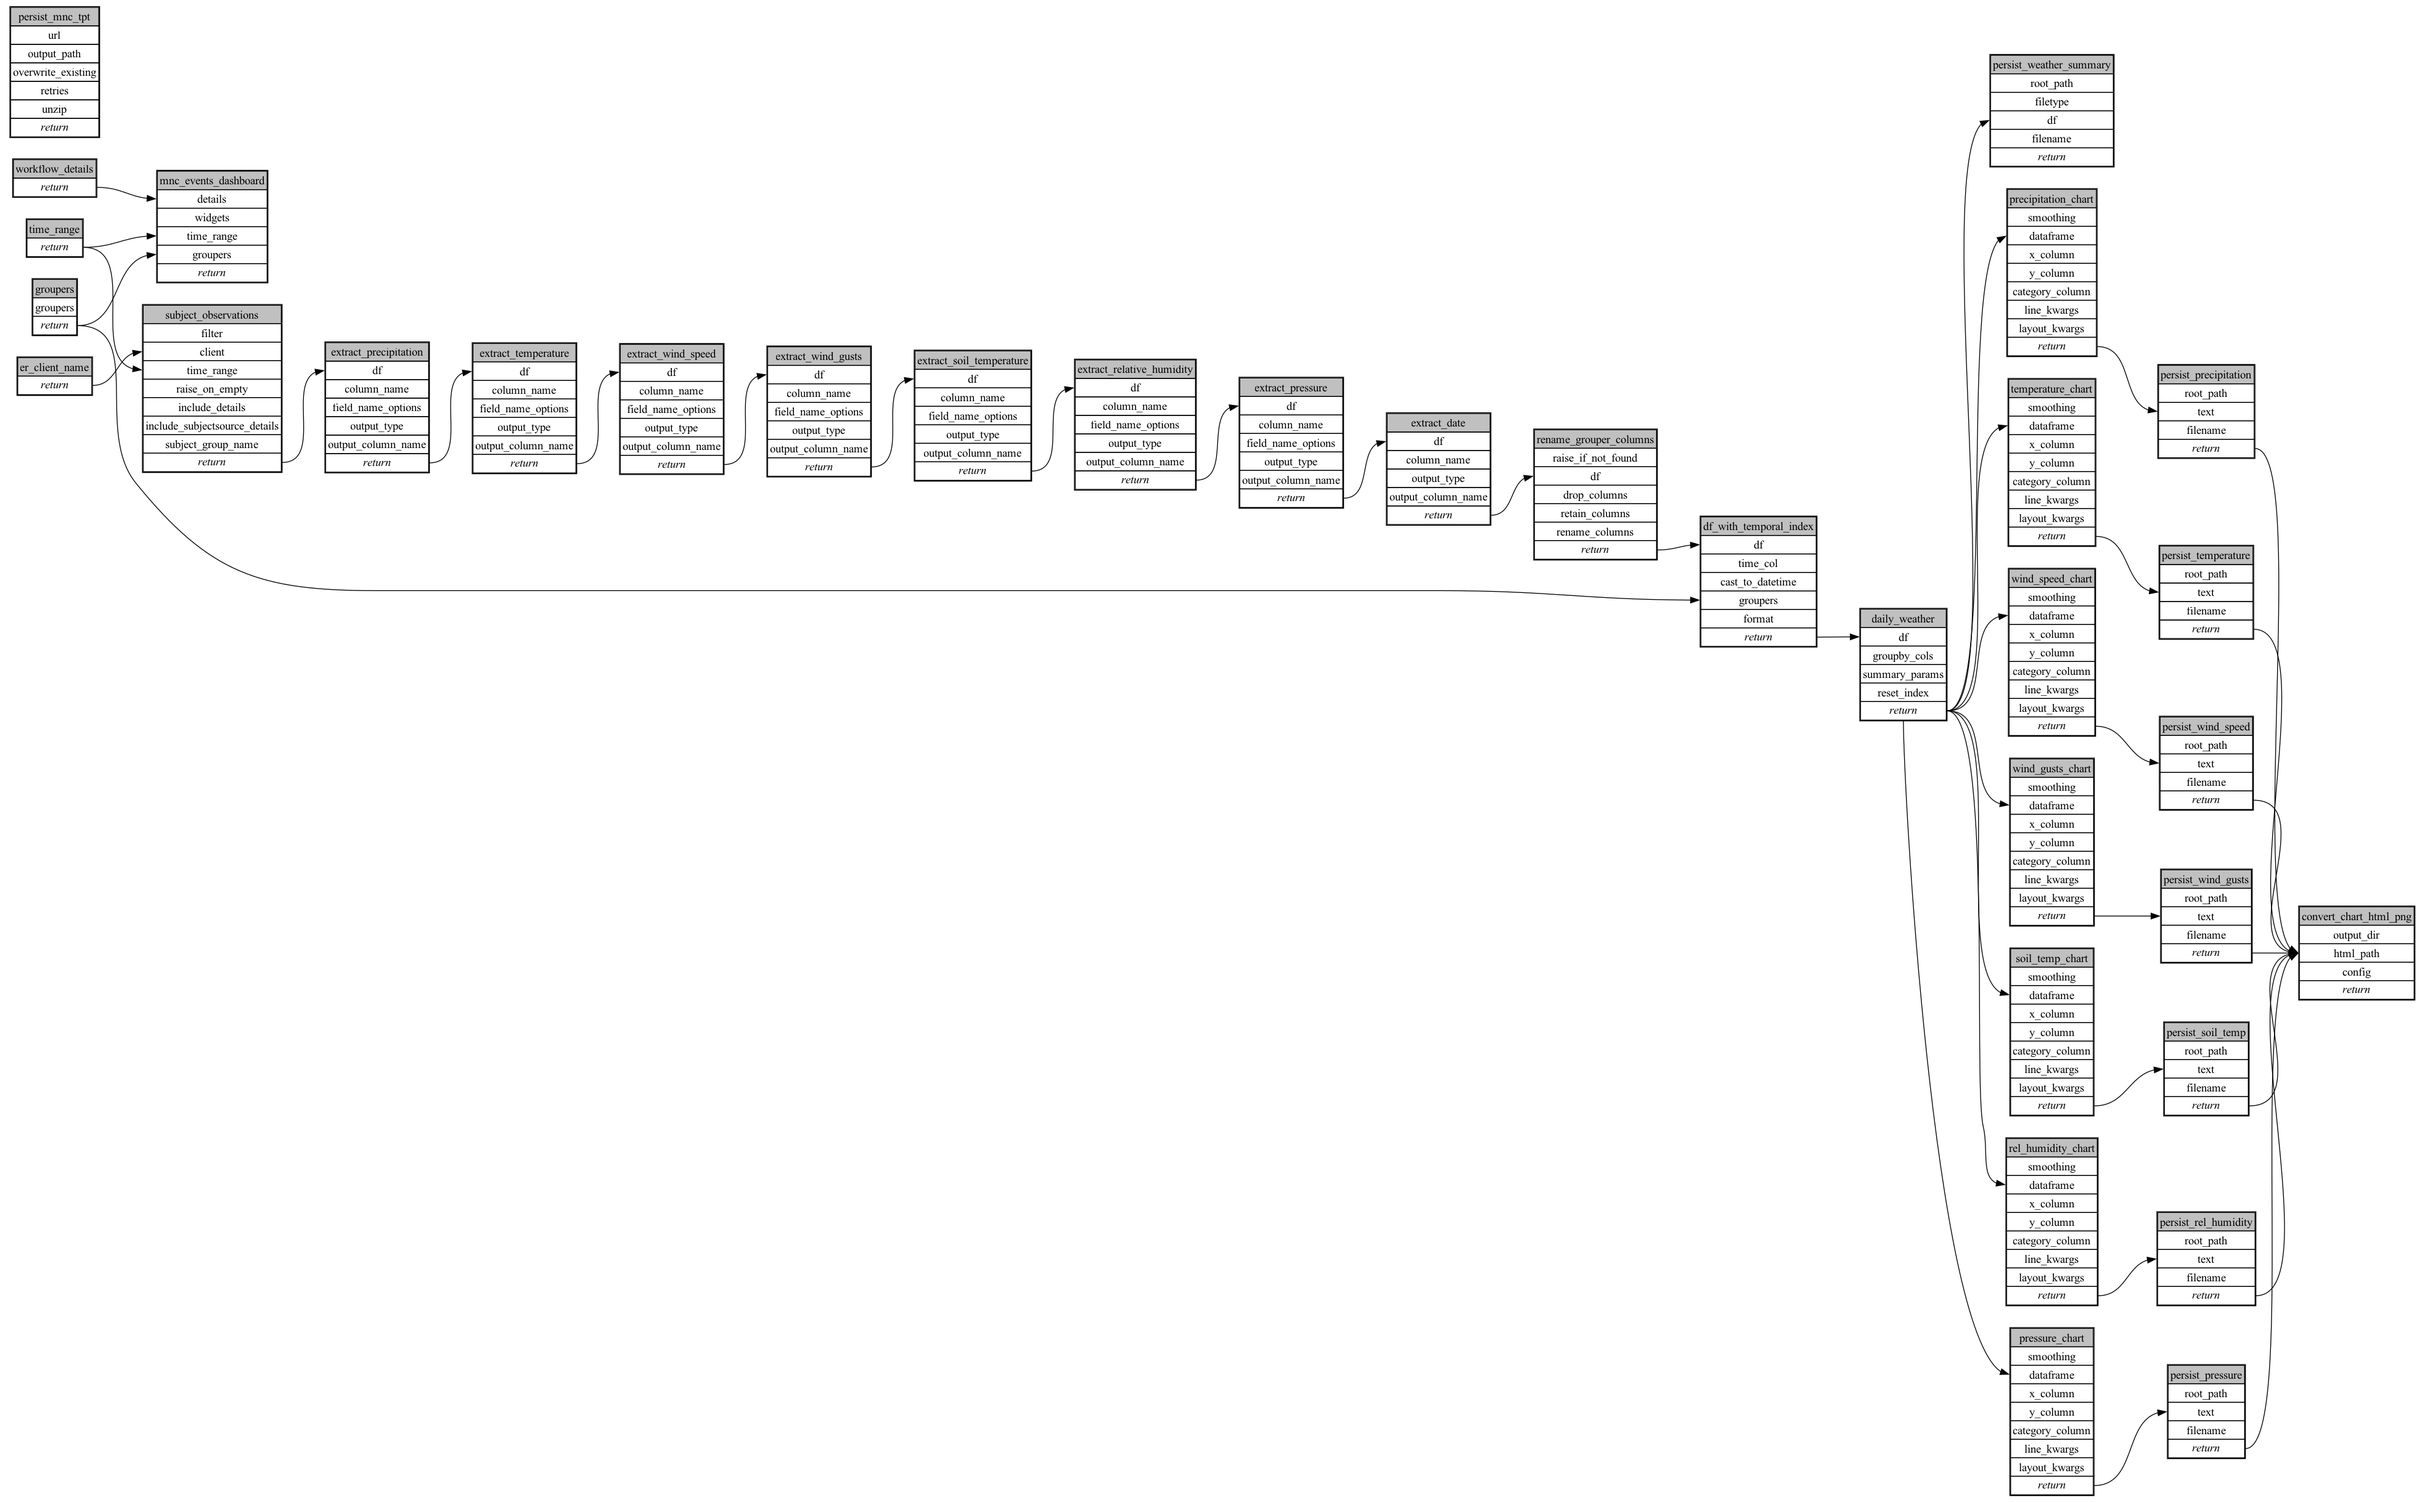
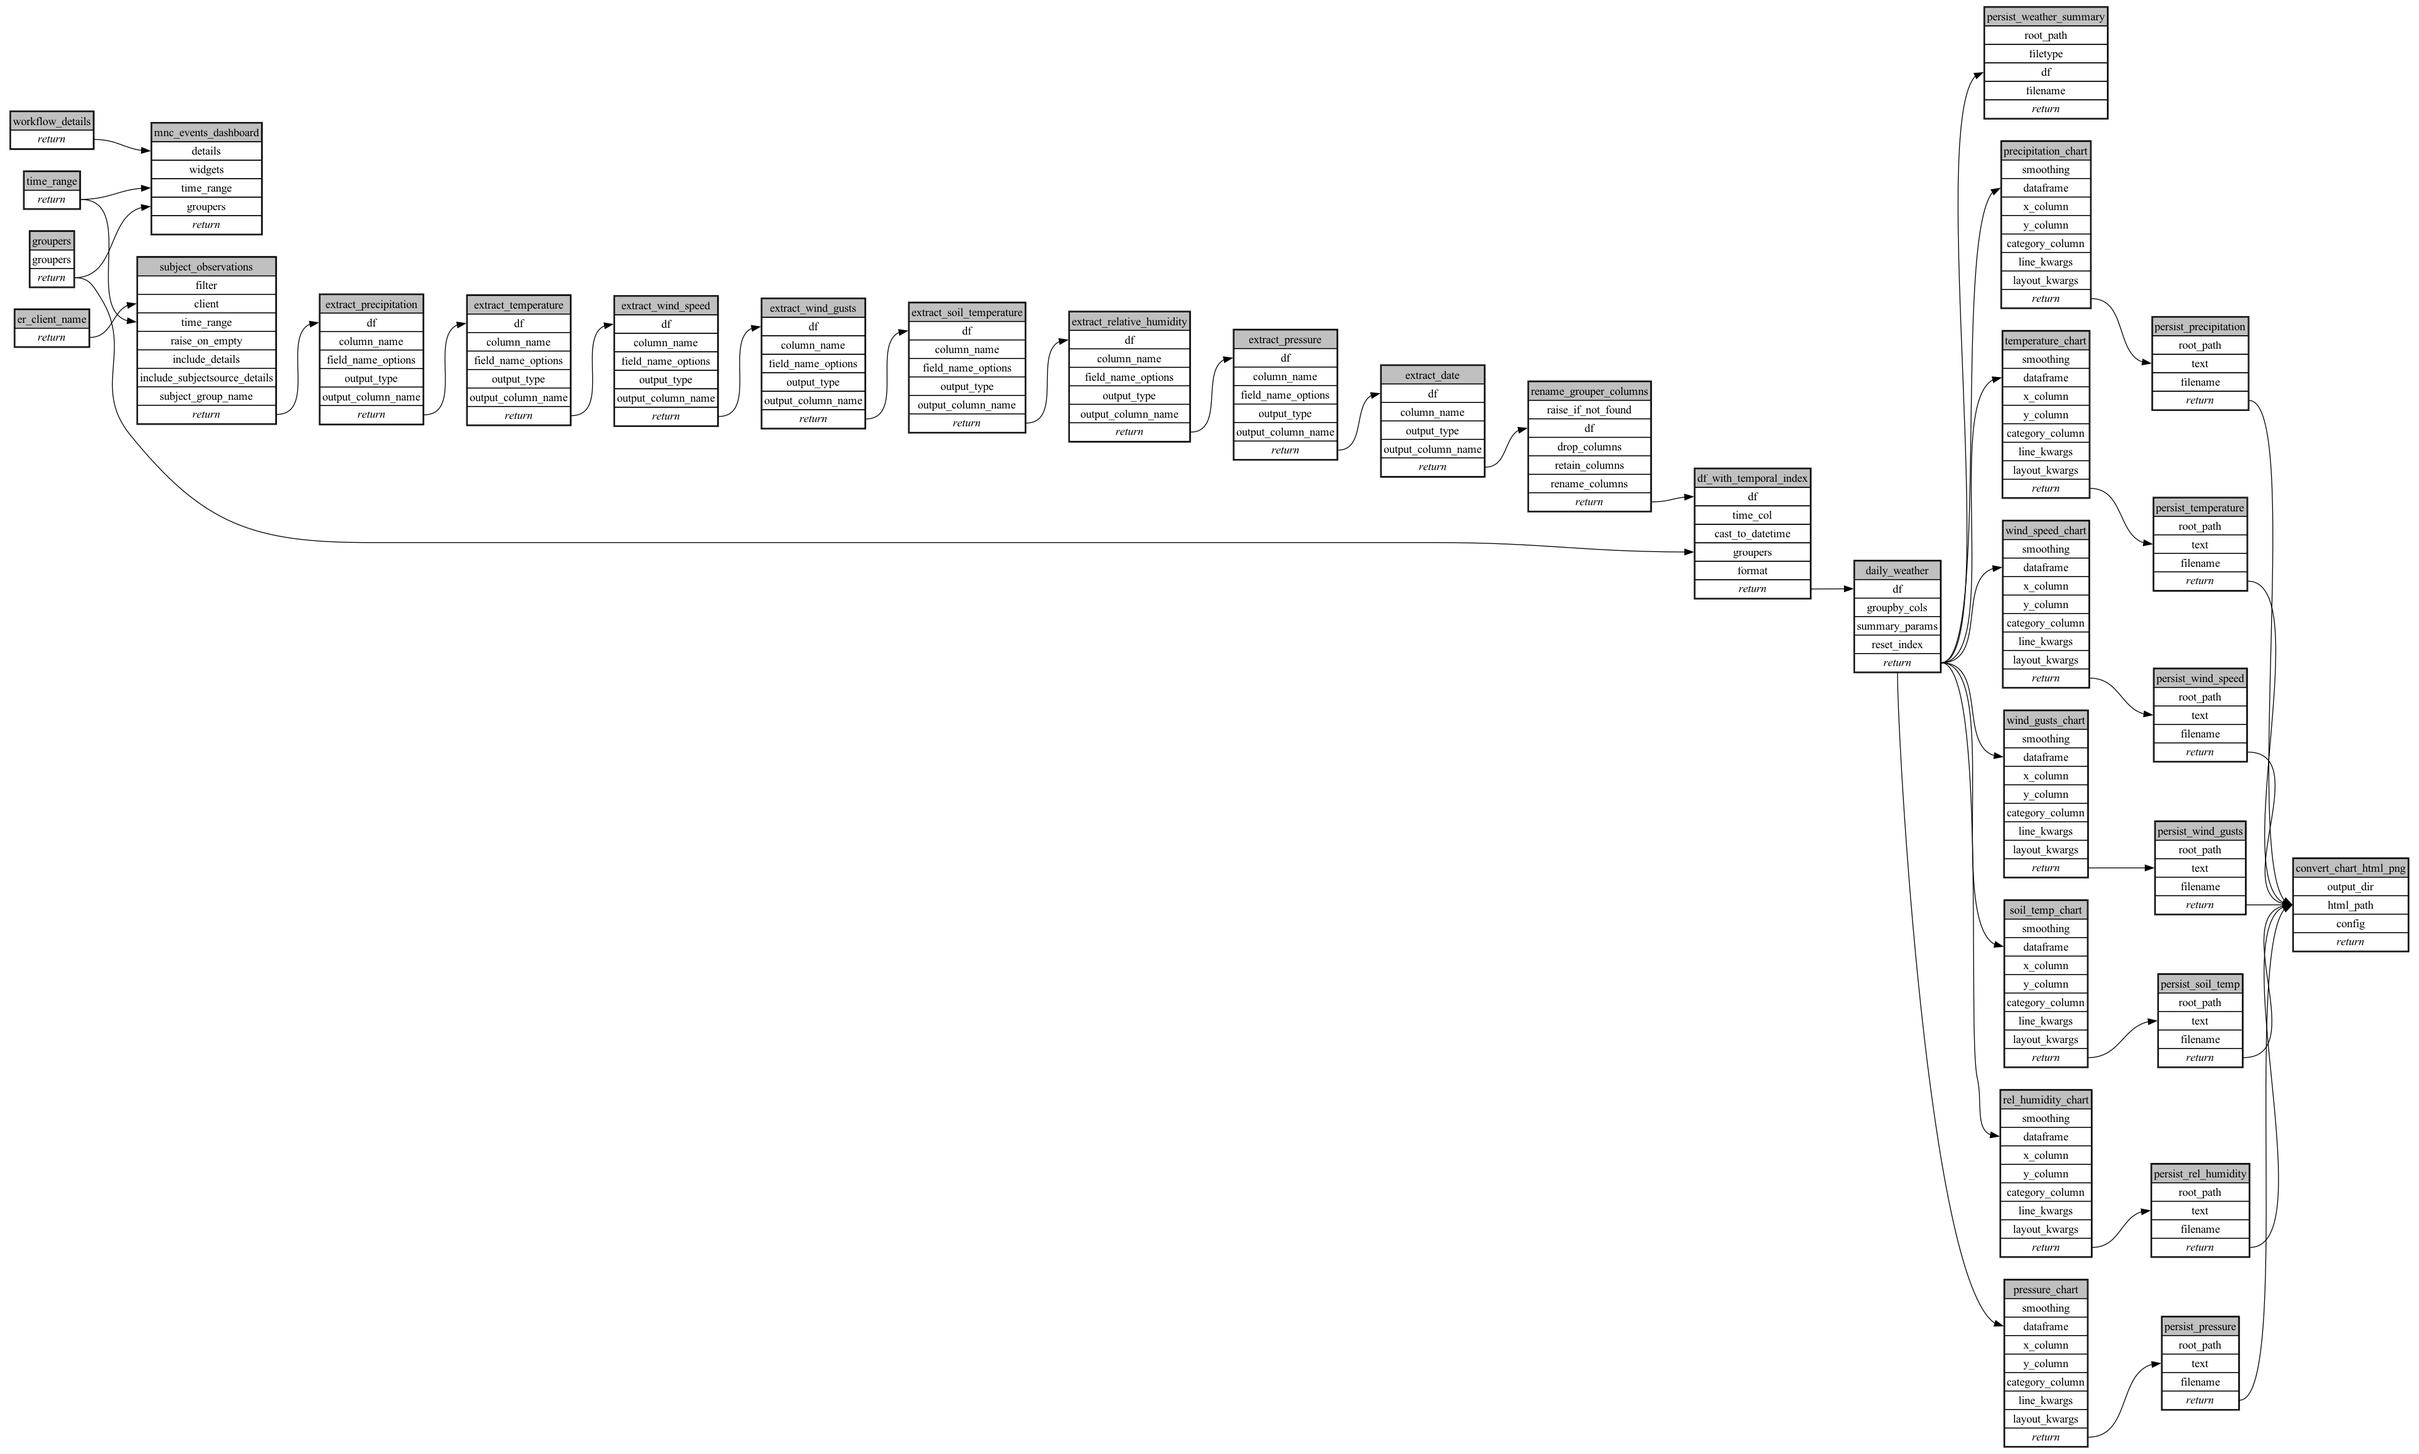
exclude mnc template from spec.yaml

Changed region(s): [[0.0, 0.0, 1.0, 1.0]]

diff --git a/workflows/tahmo_weather_report/ecoscope-workflows-tahmo-weather-report-workflow/ecoscope_workflows_tahmo_weather_report_workflow/dags/run_async_mock_io.py b/workflows/tahmo_weather_report/ecoscope-workflows-tahmo-weather-report-workflow/ecoscope_workflows_tahmo_weather_report_workflow/dags/run_async_mock_io.py
@@ -19,9 +19,6 @@ from ecoscope_workflows_core.tasks.filter import set_time_range as set_time_rang
 from ecoscope_workflows_core.tasks.groupby import set_groupers as set_groupers
 from ecoscope_workflows_core.tasks.io import set_er_connection as set_er_connection
 from ecoscope_workflows_core.testing import create_task_magicmock  # 🧪
-from ecoscope_workflows_ext_ste.tasks import (
-    fetch_and_persist_file as fetch_and_persist_file,
-)
 
 get_subjectgroup_observations = create_task_magicmock(  # 🧪
     anchor="ecoscope_workflows_ext_ecoscope.tasks.io",  # 🧪
@@ -63,7 +60,6 @@ def main(params: Params):
         "time_range": [],
         "groupers": [],
         "er_client_name": [],
-        "persist_mnc_tpt": [],
         "subject_observations": ["er_client_name", "time_range"],
         "extract_precipitation": ["subject_observations"],
         "extract_temperature": ["extract_precipitation"],
@@ -138,22 +134,6 @@ def main(params: Params):
             .with_tracing()
             .set_executor("lithops"),
             partial=(params_dict.get("er_client_name") or {}),
-            method="call",
-        ),
-        "persist_mnc_tpt": Node(
-            async_task=fetch_and_persist_file.validate()
-            .set_task_instance_id("persist_mnc_tpt")
-            .handle_errors()
-            .with_tracing()
-            .set_executor("lithops"),
-            partial={
-                "url": "https://www.dropbox.com/scl/fi/tx4fdlikfsijgw8jkugnr/mara_north_event_template.docx?rlkey=pvyu3y7ibpphbqlqc6u1pns3t&st=iuurvvfp&dl=0",
-                "output_path": os.environ["ECOSCOPE_WORKFLOWS_RESULTS"],
-                "overwrite_existing": False,
-                "retries": 3,
-                "unzip": False,
-            }
-            | (params_dict.get("persist_mnc_tpt") or {}),
             method="call",
         ),
         "subject_observations": Node(

diff --git a/workflows/tahmo_weather_report/ecoscope-workflows-tahmo-weather-report-workflow/ecoscope_workflows_tahmo_weather_report_workflow/dags/run_async.py b/workflows/tahmo_weather_report/ecoscope-workflows-tahmo-weather-report-workflow/ecoscope_workflows_tahmo_weather_report_workflow/dags/run_async.py
@@ -34,9 +34,6 @@ from ecoscope_workflows_ext_ecoscope.tasks.io import persist_df as persist_df
 from ecoscope_workflows_ext_ecoscope.tasks.results import (
     draw_line_chart as draw_line_chart,
 )
-from ecoscope_workflows_ext_ste.tasks import (
-    fetch_and_persist_file as fetch_and_persist_file,
-)
 
 from ..params import Params
 
@@ -49,7 +46,6 @@ def main(params: Params):
         "time_range": [],
         "groupers": [],
         "er_client_name": [],
-        "persist_mnc_tpt": [],
         "subject_observations": ["er_client_name", "time_range"],
         "extract_precipitation": ["subject_observations"],
         "extract_temperature": ["extract_precipitation"],
@@ -124,22 +120,6 @@ def main(params: Params):
             .with_tracing()
             .set_executor("lithops"),
             partial=(params_dict.get("er_client_name") or {}),
-            method="call",
-        ),
-        "persist_mnc_tpt": Node(
-            async_task=fetch_and_persist_file.validate()
-            .set_task_instance_id("persist_mnc_tpt")
-            .handle_errors()
-            .with_tracing()
-            .set_executor("lithops"),
-            partial={
-                "url": "https://www.dropbox.com/scl/fi/tx4fdlikfsijgw8jkugnr/mara_north_event_template.docx?rlkey=pvyu3y7ibpphbqlqc6u1pns3t&st=iuurvvfp&dl=0",
-                "output_path": os.environ["ECOSCOPE_WORKFLOWS_RESULTS"],
-                "overwrite_existing": False,
-                "retries": 3,
-                "unzip": False,
-            }
-            | (params_dict.get("persist_mnc_tpt") or {}),
             method="call",
         ),
         "subject_observations": Node(

diff --git a/workflows/tahmo_weather_report/ecoscope-workflows-tahmo-weather-report-workflow/ecoscope_workflows_tahmo_weather_report_workflow/dags/run_sequential_mock_io.py b/workflows/tahmo_weather_report/ecoscope-workflows-tahmo-weather-report-workflow/ecoscope_workflows_tahmo_weather_report_workflow/dags/run_sequential_mock_io.py
@@ -18,9 +18,6 @@ from ecoscope_workflows_core.tasks.filter import set_time_range as set_time_rang
 from ecoscope_workflows_core.tasks.groupby import set_groupers as set_groupers
 from ecoscope_workflows_core.tasks.io import set_er_connection as set_er_connection
 from ecoscope_workflows_core.testing import create_task_magicmock  # 🧪
-from ecoscope_workflows_ext_ste.tasks import (
-    fetch_and_persist_file as fetch_and_persist_file,
-)
 
 get_subjectgroup_observations = create_task_magicmock(  # 🧪
     anchor="ecoscope_workflows_ext_ecoscope.tasks.io",  # 🧪
@@ -90,22 +87,6 @@ def main(params: Params):
         .handle_errors()
         .with_tracing()
         .partial(**(params_dict.get("er_client_name") or {}))
-        .call()
-    )
-
-    persist_mnc_tpt = (
-        fetch_and_persist_file.validate()
-        .set_task_instance_id("persist_mnc_tpt")
-        .handle_errors()
-        .with_tracing()
-        .partial(
-            url="https://www.dropbox.com/scl/fi/tx4fdlikfsijgw8jkugnr/mara_north_event_template.docx?rlkey=pvyu3y7ibpphbqlqc6u1pns3t&st=iuurvvfp&dl=0",
-            output_path=os.environ["ECOSCOPE_WORKFLOWS_RESULTS"],
-            overwrite_existing=False,
-            retries=3,
-            unzip=False,
-            **(params_dict.get("persist_mnc_tpt") or {}),
-        )
         .call()
     )
 

diff --git a/workflows/tahmo_weather_report/ecoscope-workflows-tahmo-weather-report-workflow/ecoscope_workflows_tahmo_weather_report_workflow/dags/jupytext.py b/workflows/tahmo_weather_report/ecoscope-workflows-tahmo-weather-report-workflow/ecoscope_workflows_tahmo_weather_report_workflow/dags/jupytext.py
@@ -43,9 +43,6 @@ from ecoscope_workflows_ext_ecoscope.tasks.io import persist_df as persist_df
 from ecoscope_workflows_ext_ecoscope.tasks.results import (
     draw_line_chart as draw_line_chart,
 )
-from ecoscope_workflows_ext_ste.tasks import (
-    fetch_and_persist_file as fetch_and_persist_file,
-)
 
 # %% [markdown]
 # ## Set workflow details
@@ -138,34 +135,6 @@ er_client_name = (
     .handle_errors()
     .with_tracing()
     .partial(**er_client_name_params)
-    .call()
-)
-
-
-# %% [markdown]
-# ## Download MNC template and persist
-
-# %%
-# parameters
-
-persist_mnc_tpt_params = dict()
-
-# %%
-# call the task
-
-
-persist_mnc_tpt = (
-    fetch_and_persist_file.set_task_instance_id("persist_mnc_tpt")
-    .handle_errors()
-    .with_tracing()
-    .partial(
-        url="https://www.dropbox.com/scl/fi/tx4fdlikfsijgw8jkugnr/mara_north_event_template.docx?rlkey=pvyu3y7ibpphbqlqc6u1pns3t&st=iuurvvfp&dl=0",
-        output_path=os.environ["ECOSCOPE_WORKFLOWS_RESULTS"],
-        overwrite_existing=False,
-        retries=3,
-        unzip=False,
-        **persist_mnc_tpt_params,
-    )
     .call()
 )
 

diff --git a/workflows/tahmo_weather_report/ecoscope-workflows-tahmo-weather-report-workflow/ecoscope_workflows_tahmo_weather_report_workflow/dags/run_sequential.py b/workflows/tahmo_weather_report/ecoscope-workflows-tahmo-weather-report-workflow/ecoscope_workflows_tahmo_weather_report_workflow/dags/run_sequential.py
@@ -33,9 +33,6 @@ from ecoscope_workflows_ext_ecoscope.tasks.io import persist_df as persist_df
 from ecoscope_workflows_ext_ecoscope.tasks.results import (
     draw_line_chart as draw_line_chart,
 )
-from ecoscope_workflows_ext_ste.tasks import (
-    fetch_and_persist_file as fetch_and_persist_file,
-)
 
 from ..params import Params
 
@@ -76,22 +73,6 @@ def main(params: Params):
         .handle_errors()
         .with_tracing()
         .partial(**(params_dict.get("er_client_name") or {}))
-        .call()
-    )
-
-    persist_mnc_tpt = (
-        fetch_and_persist_file.validate()
-        .set_task_instance_id("persist_mnc_tpt")
-        .handle_errors()
-        .with_tracing()
-        .partial(
-            url="https://www.dropbox.com/scl/fi/tx4fdlikfsijgw8jkugnr/mara_north_event_template.docx?rlkey=pvyu3y7ibpphbqlqc6u1pns3t&st=iuurvvfp&dl=0",
-            output_path=os.environ["ECOSCOPE_WORKFLOWS_RESULTS"],
-            overwrite_existing=False,
-            retries=3,
-            unzip=False,
-            **(params_dict.get("persist_mnc_tpt") or {}),
-        )
         .call()
     )
 

diff --git a/workflows/tahmo_weather_report/ecoscope-workflows-tahmo-weather-report-workflow/README.md b/workflows/tahmo_weather_report/ecoscope-workflows-tahmo-weather-report-workflow/README.md
@@ -5,8 +5,8 @@
 
 ```yaml
 # fingerprint:
-artifacts_sha256_basic: c77b1a17baaa2c35b591b91f7d9d56578fbdc0530299cb84dcfcf8ec86bb3421
-artifacts_sha256_strict: 588706041c060a1bb272f3c777ec9f41fd8729df42579b4f9ad291b9534937cf
+artifacts_sha256_basic: def1828402422ed573ed183b505c3ae1b65b5edb92a52232e36e9907c1bb4d3f
+artifacts_sha256_strict: ff66e7c2d9c0f6f3114cbb93cb27700fe87d33c573b98f2d9d27f37b9ae857c9
 installed_requirements:
 - channel: https://repo.prefix.dev/ecoscope-workflows/
   name: ecoscope-workflows-core
@@ -24,7 +24,7 @@ installed_requirements:
   name: ecoscope-workflows-ext-mnc
   version: {version: ==0.0.8}
 params_sha256: 3ab4c0f59c459fe3feea277da14ef6a8b3d0dfc0f958f3f015ddd4d700bcc5f8
-spec_sha256: 501ac76c8f813db1b9f6a5e793d60a334ef718b2b31c592dc1fcb2c9d328f1ae
+spec_sha256: 47482705d4578f0ba263732c2f51eb05215f528db106955bba1c13e6c0c7a6e9
 
 ```
 
